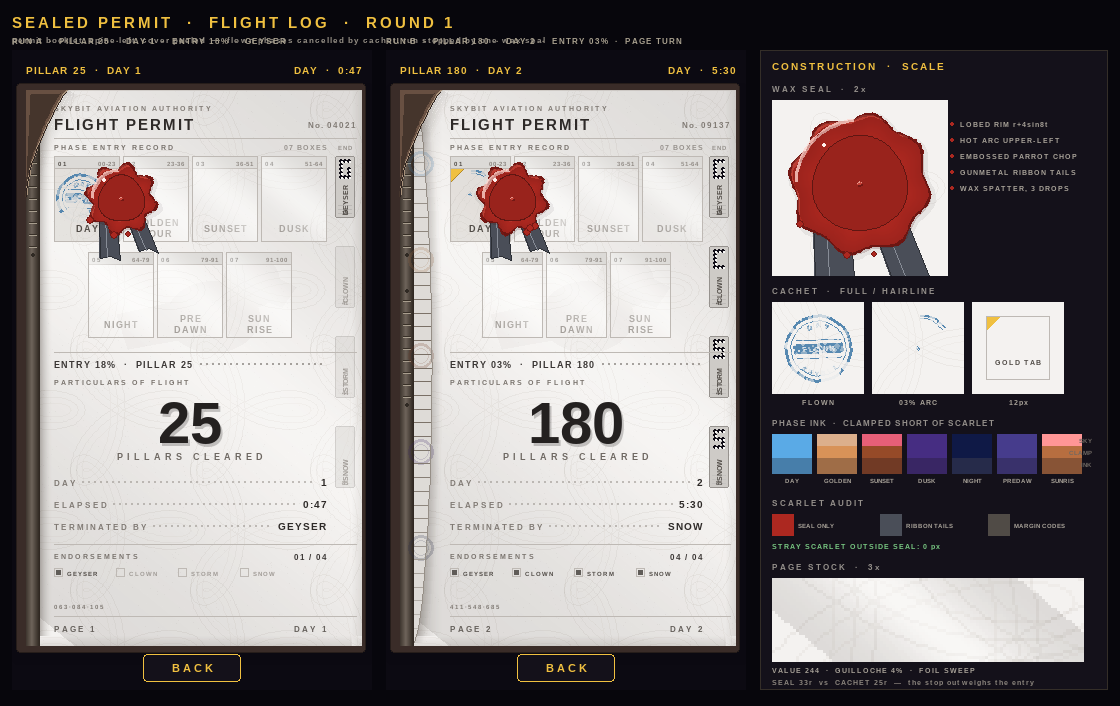
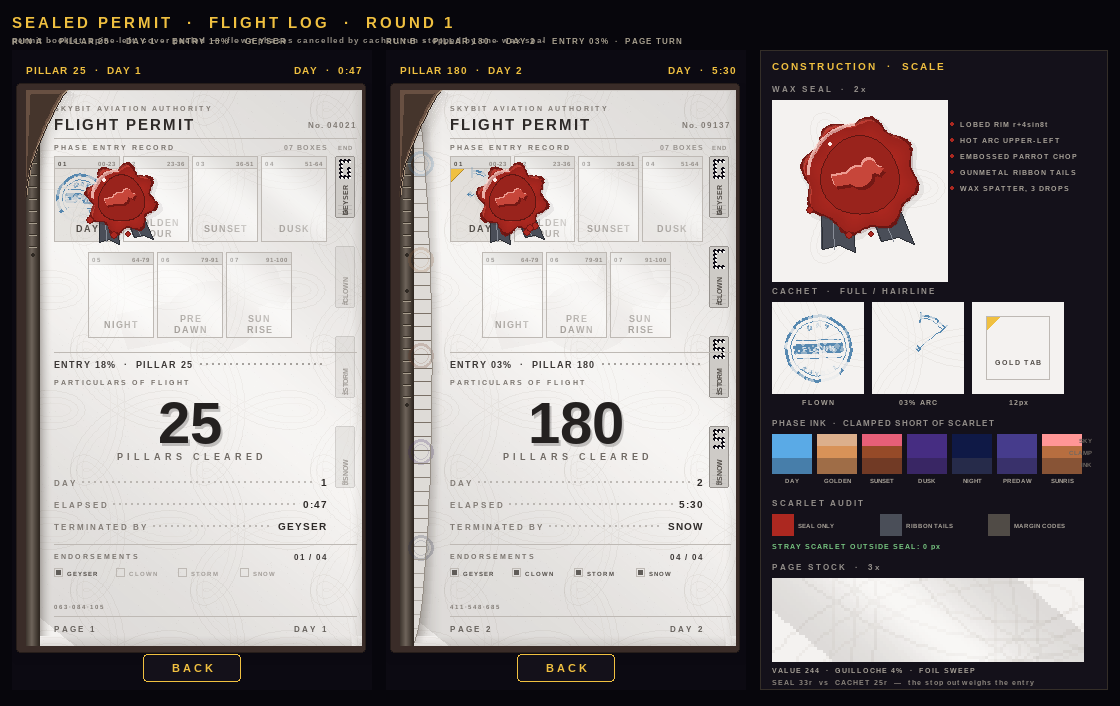
Flight log round 4: sealed_permit round_1
Permit booklet stood portrait: spine left, cover flap peeled off the gutter,
one bright security-paper page face exposed. Seven phase entry boxes in a 4+3
grid; flown phases cancelled by a mottled rubber-stamp cachet inked from the
biome sky keyframes, unflown boxes left as untouched stock with the specular
sweep at its hottest. The run is stopped by a single scarlet wax seal pressed
on the seam between the last stamped box and the first unstamped one.

Warm sky keyframes are clamped onto an amber ramp so scarlet stays exclusive
to the seal; the sheet is shaded away from the specular axis because bright
stock has almost no headroom to white and the gleam has to come from the
surround.

Claude-Session: https://claude.ai/code/session_01WbuBifdZt4BCNxLahVmLG9

diff --git a/tools/render_flight_log_sealed_permit.py b/tools/render_flight_log_sealed_permit.py
@@ -465,7 +465,16 @@ def _cachet(name, r, seed, ink, partial=None):
             pts_i.append((c + (r - 3) * math.cos(a), c + (r - 3) * math.sin(a)))
         pygame.draw.lines(surf, ink, False, pts_o, 2)
         pygame.draw.lines(surf, ink, False, pts_i, 1)
-        pygame.draw.circle(surf, ink, (c, c), 2)
+        # Start and end ticks plus a hub, so a 48-degree scratch of ink reads
+        # as a measured arc rather than a printing fault.
+        for a in (math.radians(-90), math.radians(-90 + sweep)):
+            pygame.draw.line(surf, ink,
+                             (c + (r - 7) * math.cos(a), c + (r - 7) * math.sin(a)),
+                             (c + (r + 3) * math.cos(a), c + (r + 3) * math.sin(a)), 2)
+        a = math.radians(-90 + sweep)
+        pygame.draw.line(surf, ink, (c, c),
+                         (c + (r - 8) * math.cos(a), c + (r - 8) * math.sin(a)), 1)
+        pygame.draw.circle(surf, ink, (c, c), 3)
     else:
         pygame.draw.circle(surf, ink, (c, c), r, 3)
         pygame.draw.circle(surf, ink, (c, c), r - 6, 1)
@@ -528,7 +537,9 @@ def _wax_seal(surf, cx, cy, r, seed, ribbons=True):
         for sx, tilt in ((-1, 22), (1, -18)):
             base = (cx + sx * r * 0.42, cy + r * 0.52)
             ang = math.radians(74 + tilt)
-            L = r * 1.35
+            # Tails stop inside the seal's own box row; any longer and the
+            # grey laces across the untouched stock it is meant to leave alone.
+            L = r * 0.85
             tip = (base[0] + sx * math.cos(ang) * L * 0.55,
                    base[1] + math.sin(ang) * L)
             wid = r * 0.26
@@ -564,11 +575,13 @@ def _wax_seal(surf, cx, cy, r, seed, ribbons=True):
     pygame.draw.polygon(surf, _mix(SCARLET, SCARLET_DEEP, 0.34), well)
     pygame.draw.lines(surf, _mix(SCARLET, (0, 0, 0), 0.45), True, well, 1)
 
-    _draw_parrot(surf, cx + 0.9, cy + 1.4, r * 0.030, SCARLET_DEEP)
-    _draw_parrot(surf, cx, cy, r * 0.030, SCARLET_LIT)
-    _draw_parrot(surf, cx - 0.8, cy - 1.0, r * 0.028,
-                 _mix(SCARLET_LIT, (255, 210, 200), 0.5))
-    _draw_parrot(surf, cx, cy, r * 0.030, _mix(SCARLET_LIT, SCARLET, 0.45))
+    # Chop is sized to fill the pressed well: the die is the whole point of a
+    # seal, so it has to survive at the 33px radius the page actually uses.
+    cs, e = r * 0.42, max(1.0, r * 0.045)
+    _draw_parrot(surf, cx + e, cy + e * 1.3, cs, SCARLET_DEEP)
+    _draw_parrot(surf, cx - e * 0.6, cy - e * 0.8, cs,
+                 _mix(SCARLET_LIT, (255, 214, 204), 0.55))
+    _draw_parrot(surf, cx, cy, cs, _mix(SCARLET_LIT, SCARLET, 0.35))
 
     hot = pygame.Surface((int(r * 4), int(r * 4)), pygame.SRCALPHA)
     rect = pygame.Rect(vc - r + 3, vc - r + 3, 2 * (r - 3), 2 * (r - 3))
@@ -873,11 +886,11 @@ def _detail_column(w, h, run_a_surf, run_a_seal):
     _caps(surf, "CONSTRUCTION  ·  SCALE", 12, 16, 10, GOLD, tracking=2)
 
     _caps(surf, "WAX SEAL  ·  2x", 12, 38, 8, (150, 145, 140), tracking=2)
-    plate = pygame.Surface((176, 176))
+    plate = pygame.Surface((176, 182))
     plate.fill(STOCK)
     ros = _rosette()
     plate.blit(ros, ros.get_rect(center=(88, 88)))
-    _wax_seal(plate, 88, 84, 68, 4024)
+    _wax_seal(plate, 88, 76, 56, 4024)
     surf.blit(plate, (12, 50))
     notes = ["LOBED RIM r+4sin8t", "HOT ARC UPPER-LEFT",
              "EMBOSSED PARROT CHOP", "GUNMETAL RIBBON TAILS",
